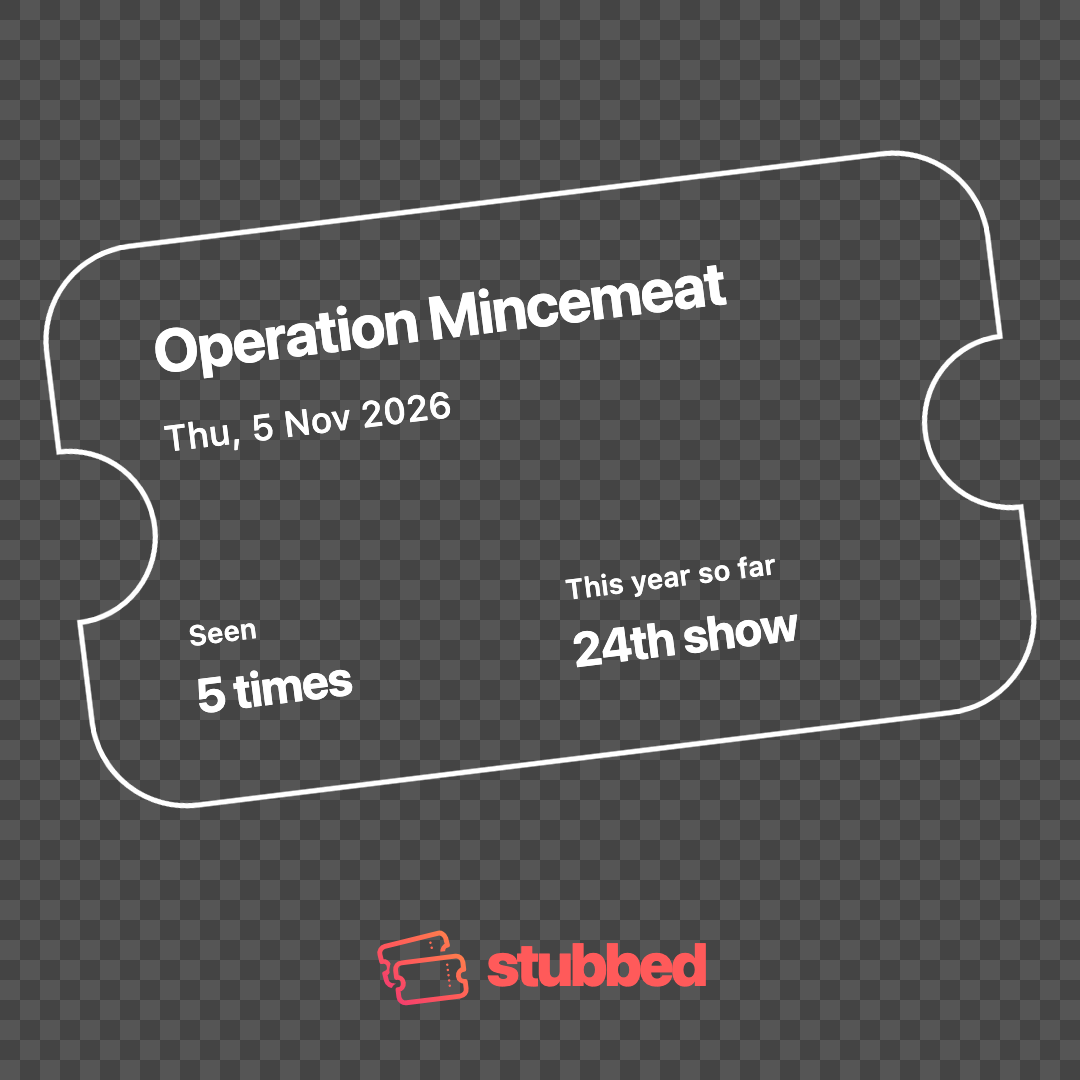
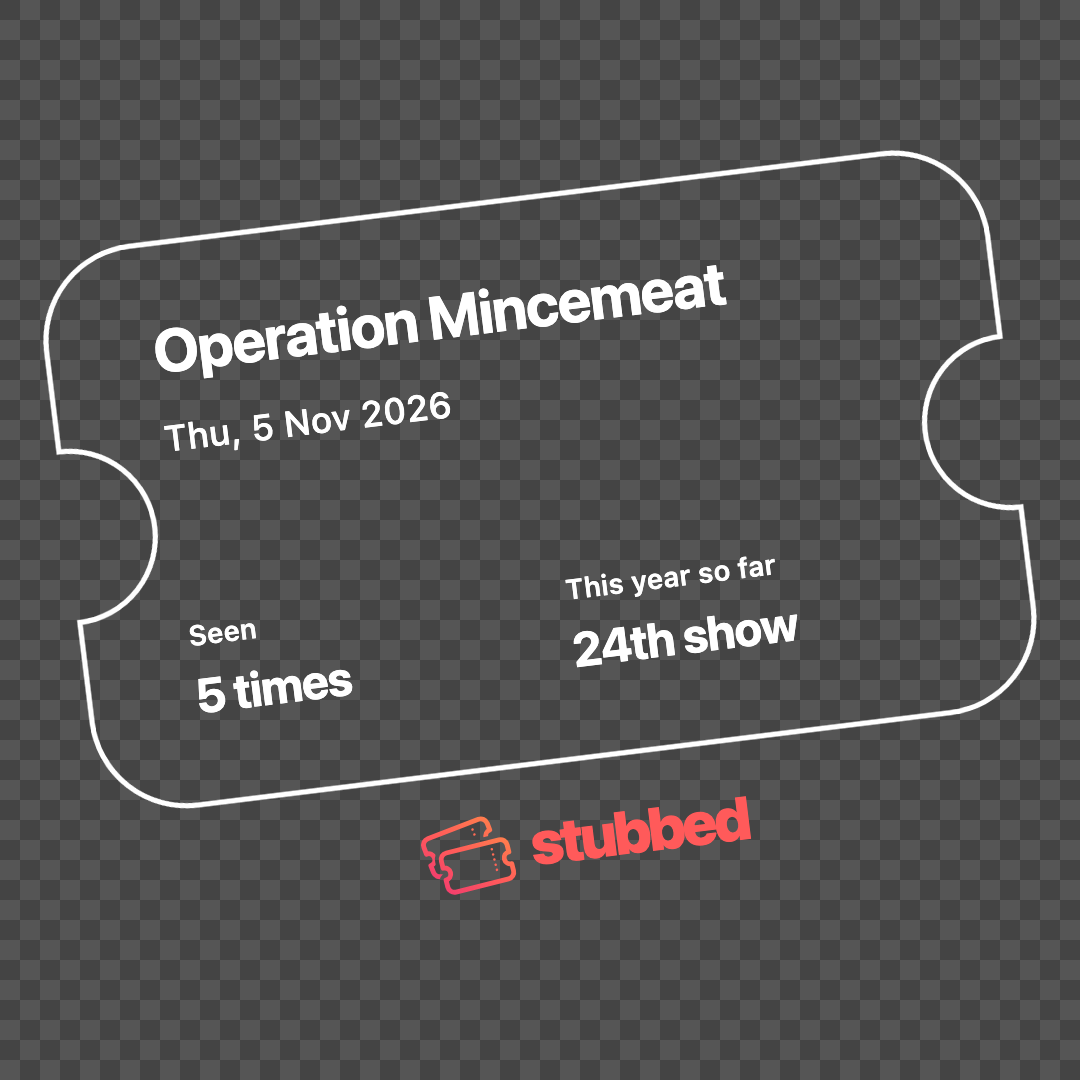
Align ticket branding with the stub and tighten its spacing

Changed region(s): [[0.3667, 0.7333, 0.7028, 0.825], [0.3361, 0.8556, 0.6722, 0.9472]]

diff --git a/apps/web/src/lib/share-card.ts b/apps/web/src/lib/share-card.ts
@@ -288,10 +288,10 @@ function shareDate(date: Date) {
 
 function drawTicketBrand(ctx: Ctx, mark: HTMLImageElement | null) {
   setFont(ctx, 800, 30, DISPLAY, -1.35);
-  const left = (540 - 48 - 8 - ctx.measureText("stubbed").width) / 2;
-  if (mark) ctx.drawImage(mark, left, 464, 48, 48 * 673 / 816);
+  const left = (480 - 48 - 8 - ctx.measureText("stubbed").width) / 2;
+  if (mark) ctx.drawImage(mark, left, 306, 48, 48 * 673 / 816);
   ctx.textAlign = "left"; ctx.textBaseline = "middle";
-  ctx.fillStyle = CORAL; ctx.fillText("stubbed", left + 56, 484);
+  ctx.fillStyle = CORAL; ctx.fillText("stubbed", left + 56, 326);
 }
 
 function drawTicketOverlay(ctx: Ctx, data: CardData, color: string, ticket: HTMLImageElement | null, mark: HTMLImageElement | null) {
@@ -328,8 +328,9 @@ function drawTicketOverlay(ctx: Ctx, data: CardData, color: string, ticket: HTML
   setFont(ctx, 700, 24, DISPLAY, -0.3);
   ctx.fillText(`${data.timesSeen} ${data.timesSeen === 1 ? "time" : "times"}`, 56, 220, 148);
   ctx.fillText(`${ordinal(data.showOfYear)} show`, 246, 220, 168);
-  ctx.restore();
+  // Keep the branding in the ticket’s coordinates: parallel, 19pt below it.
   drawTicketBrand(ctx, mark);
+  ctx.restore();
 }
 
 // --- helpers ---------------------------------------------------------------

diff --git a/apps/ios/Stubbed/Screens/Share/EntryCard.swift b/apps/ios/Stubbed/Screens/Share/EntryCard.swift
@@ -189,17 +189,17 @@ private struct TicketOverlayCard: View {
         stat(data.year == Calendar.current.component(.year, from: today) ? "This year so far" : "\(data.year) so far",
           value: "\(ordinal(data.showOfYear)) show", width: 168).offset(x: 246, y: 194)
 
+        HStack(spacing: 8) {
+          Image("BrandMarkOutline").renderingMode(.original).resizable().scaledToFit()
+            .frame(width: 48, height: 48 * 673 / 816)
+          Text("stubbed").font(.system(size: 30, weight: .heavy)).tracking(-1.35)
+            .foregroundStyle(CardInk.coral)
+        }.frame(width: 480).offset(y: 306)
       }
       .foregroundStyle(ink)
       .frame(width: 480, height: 480 * 388 / 648)
       .rotationEffect(.degrees(-7))
       .padding(.top, 96)
-      HStack(spacing: 8) {
-        Image("BrandMarkOutline").renderingMode(.original).resizable().scaledToFit()
-          .frame(width: 48, height: 48 * 673 / 816)
-        Text("stubbed").font(.system(size: 30, weight: .heavy)).tracking(-1.35)
-          .foregroundStyle(CardInk.coral)
-      }.padding(.top, 464)
     }
     .frame(width: 540, height: 540, alignment: .top)
     .environment(\.locale, Locale(identifier: "en_GB"))

diff --git a/docs/DECISIONS.md b/docs/DECISIONS.md
@@ -1032,3 +1032,5 @@ Owner couldn't edit all of two landing captions (the editor showed only half of 
 - Tightened the plain overlay’s section spacing and restored “This year so far”. Simplified the ticket to an unlabelled show title followed immediately by the date, reclaiming the stub area and widening the counts.
 
 - No-photo sharing designs now start transparent, including Insights. The action order is Stories, Copy image, Download, Copy text, Link, More (where applicable). Copy preserves the selected PNG’s alpha on iOS and web, records `copy_image`, and reports clipboard failures without substituting text. Transparent charts use stronger grid/boundary lines, radar vertex markers, higher-opacity visited-country fills, and clearer calendar cells and separators; regular in-app charts retain their appearance.
+
+- Ticket branding now shares the ticket’s rotation and coordinate system, centred 19pt below its lower edge so the outline icon and coral wordmark sit parallel and close beneath it.
